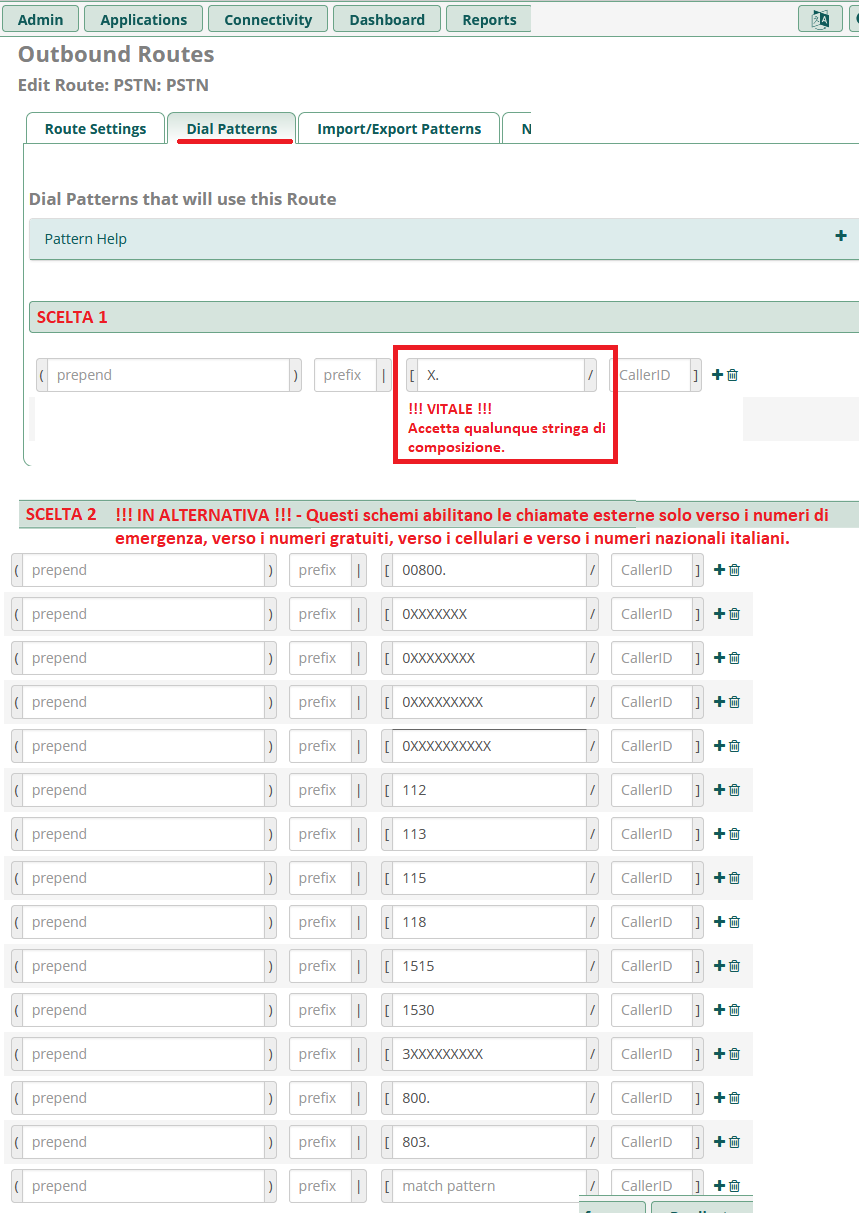
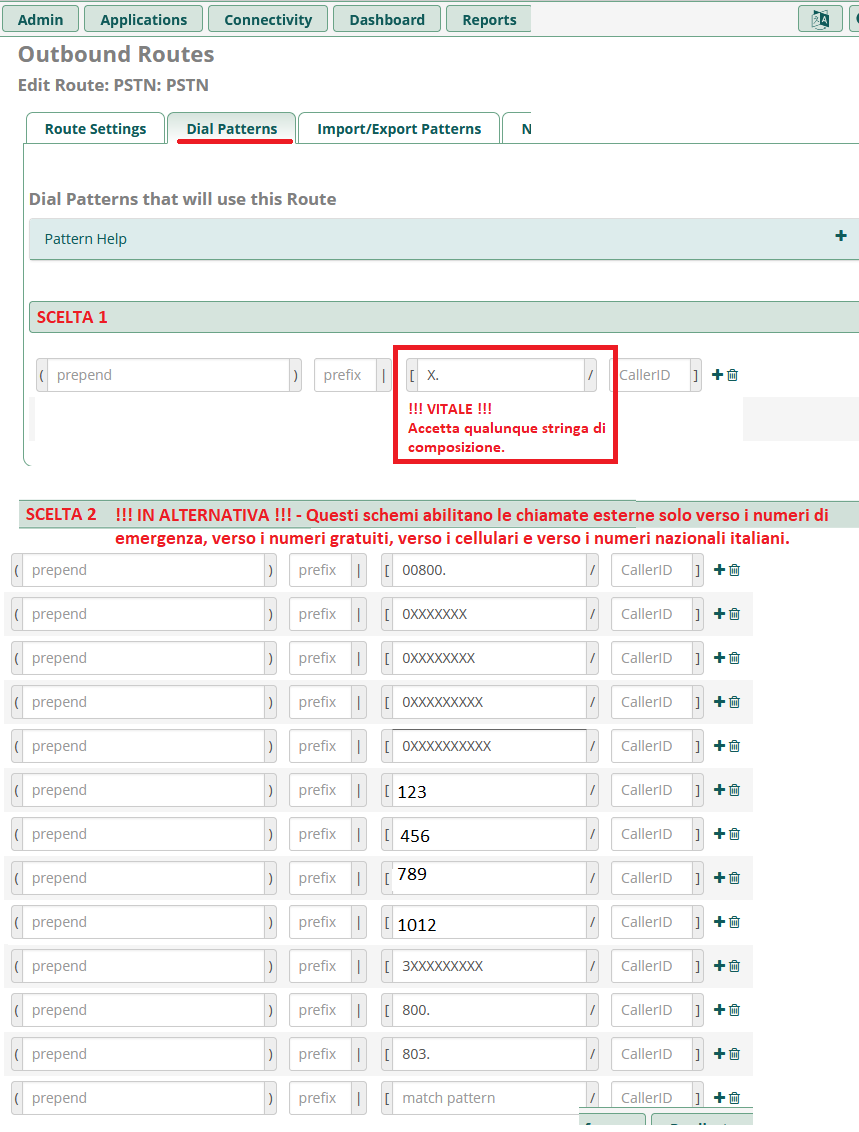
Corretto e standardizzato

Changed region(s): [[0.0, 0.0, 1.0, 1.0], [0.9383, 0.0, 1.0, 0.0309]]

diff --git a/index.html b/index.html
@@ -529,13 +529,11 @@ Per abilitare le chiamate uscenti verso i numeri verdi italiani, puoi aggiungere
 È importante notare che alcuni numeri che iniziano con 80X (dove X è diverso da 0 o 3) potrebbero essere a pagamento, quindi è meglio limitarsi specificamente a 800 e 803 se vuoi consentire solo i numeri effettivamente gratuiti.<br>
 
 <br>
-Per abilitare le chiamate uscenti verso i numeri di Emergenza, aggiungere semplicemente questi numeri nell'Outbound Route:<br>
-<b>112</b>&nbsp;&nbsp;&nbsp;&nbsp;&nbsp;&nbsp;&nbsp;&nbsp;Numero Unico di Emergenza Europeo (NUE)<br>
-<b>113</b>&nbsp;&nbsp;&nbsp;&nbsp;&nbsp;&nbsp;&nbsp;&nbsp;Polizia (ancora attivo in alcune regioni)<br>
-<b>115</b>&nbsp;&nbsp;&nbsp;&nbsp;&nbsp;&nbsp;&nbsp;&nbsp;Vigili del Fuoco<br>
-<b>118</b>&nbsp;&nbsp;&nbsp;&nbsp;&nbsp;&nbsp;&nbsp;&nbsp;Emergenza Sanitaria (ancora attivo in alcune regioni)<br>
-<b>1530</b>&nbsp;&nbsp;&nbsp;&nbsp;&nbsp;&nbsp;Guardia Costiera<br>
-<b>1515</b>&nbsp;&nbsp;&nbsp;&nbsp;&nbsp;&nbsp;Servizio Antincendio Boschivo<br>
+Per abilitare le chiamate uscenti verso determinati numeri, aggiungere semplicemente questi numeri nell'Outbound Route:<br>
+<b>123</b>&nbsp;&nbsp;&nbsp;&nbsp;&nbsp;&nbsp;&nbsp;&nbsp;<br>
+<b>456</b>&nbsp;&nbsp;&nbsp;&nbsp;&nbsp;&nbsp;&nbsp;&nbsp;<br>
+<b>789</b>&nbsp;&nbsp;&nbsp;&nbsp;&nbsp;&nbsp;&nbsp;&nbsp;<br>
+<b>1012</b>&nbsp;&nbsp;&nbsp;&nbsp;&nbsp;&nbsp;&nbsp;&nbsp;<br>
 <br>
 
 &nbsp; </p>
